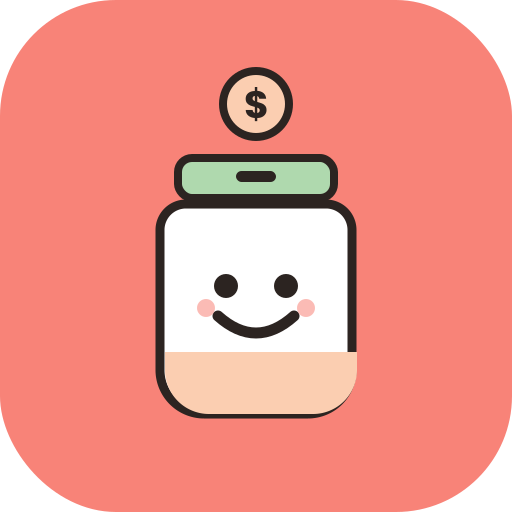
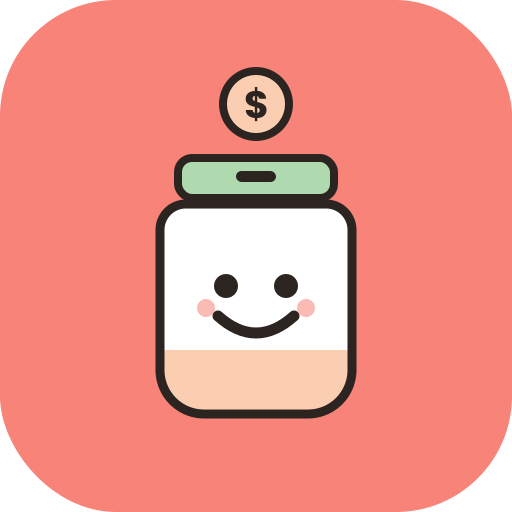
Add files via upload

Changed region(s): [[0.3438, 0.6875, 0.7188, 0.8125], [0.3438, 0.6562, 0.6562, 0.6875]]

diff --git a/sw.js b/sw.js
@@ -1,6 +1,6 @@
 /* Stash service worker — network-first for the app so updates ALWAYS reach users,
    cache as offline fallback. Bump CACHE to force-clear old static assets. */
-const CACHE = 'stash-v1';
+const CACHE = 'stash-v2';
 const ASSETS = ['./', './index.html', './manifest.json', './icon-192.png', './icon-512.png', './icon-180.png'];
 
 self.addEventListener('install', e => {